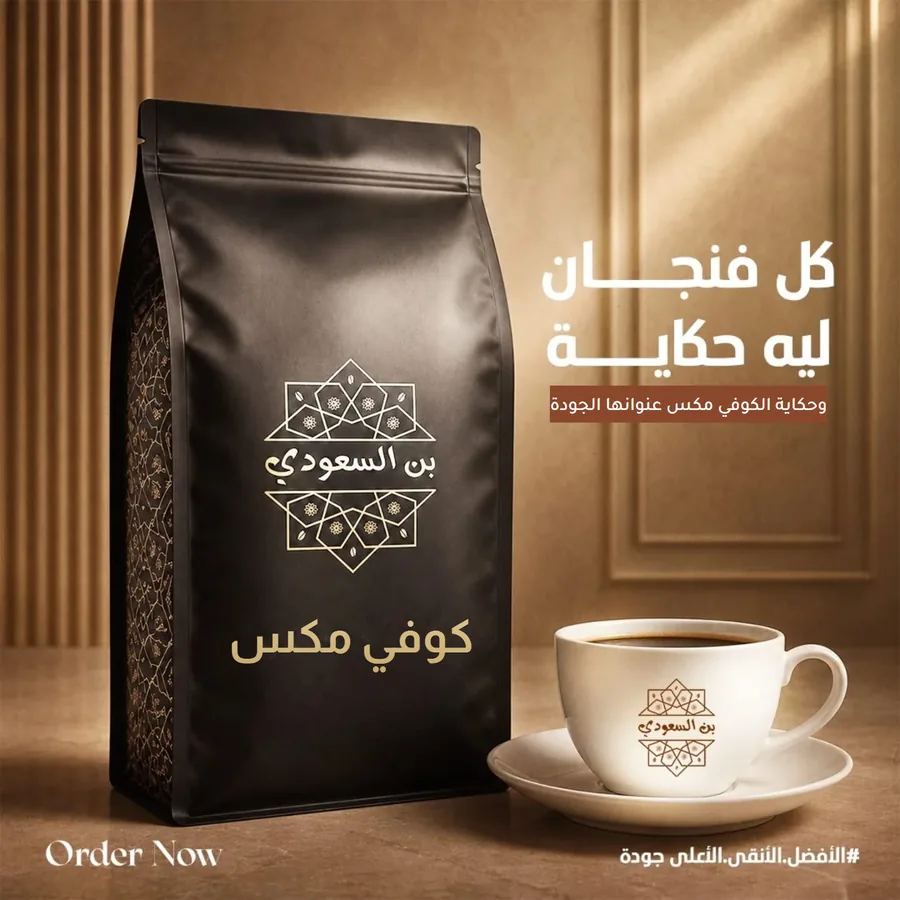
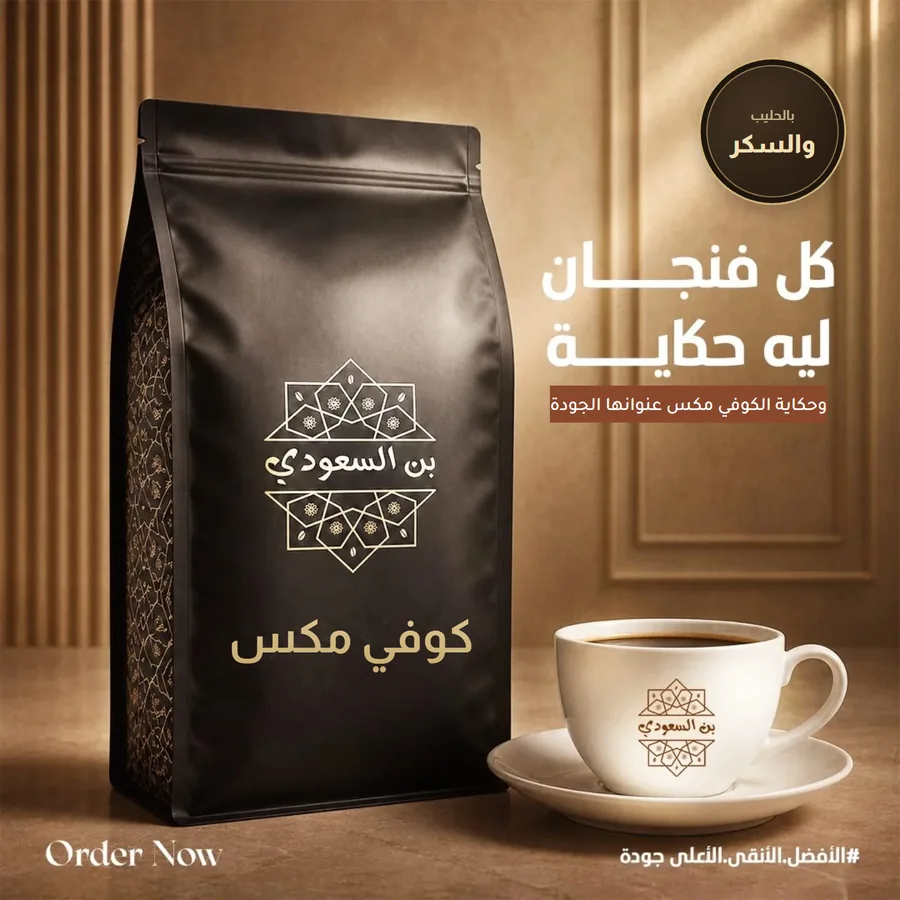
Product images: each coffee gets its own props and an origin stamp
On the shared "كل فنجان ليه حكاية" design:
- Arabic coffee: the shop's own brass dallah and finjan (cut from its poster)
  in place of the white cup, on a base with the cup removed (make-nocup.py)
- French coffee: the shop's hazelnut cup; Espresso: the crema cup
- every bean coffee: its own roast colour beans on the table
- a gold stamp on the wall: origin and flag colours for single origins,
  or what the coffee is (blend, 100% Arabica, unroasted, instant...)

Props were cut out locally with rembg; scripts and props are in
scripts/product-card.

Changed region(s): [[0.7778, 0.0622, 0.9644, 0.2489]]

diff --git a/scripts/product-card/template.html b/scripts/product-card/template.html
@@ -1,8 +1,9 @@
 <!doctype html>
 <!--
   The store's product image (1440 x 1440): the shop's "كل فنجان ليه حكاية" poster with this
-  product's name on the bag and in the red strip. Rendered by render-product-cards.py with
-  headless Chrome; the product comes in the URL hash: template.html#{"bag":["بن حبشي"],"strip":"البن الحبشي"}
+  product's name on the bag and in the red strip, plus the things that go with it on the table
+  (its own beans, the dallah for Arabic coffee, hazelnuts for French coffee...).
+  Rendered by render-product-cards.py with headless Chrome; the product comes in the URL hash.
   For Ramadan or summer later: make a new base the same way and render again.
 -->
 <html lang="ar" dir="rtl">
@@ -15,6 +16,7 @@
   * { box-sizing: border-box; margin: 0; }
   html, body { width: 1440px; height: 1440px; overflow: hidden; background: #000; }
   .poster { position: relative; width: 1440px; height: 1440px; background: url("base.jpg") 0 0 / 1440px 1440px no-repeat; }
+  .poster.no-cup { background-image: url("base-nocup.jpg"); }
 
   /* the product name printed on the bag, in the bag's gold */
   .bag {
@@ -36,18 +38,74 @@
     display: flex; align-items: center; justify-content: center;
     font: 500 30px/1 "Tajawal", sans-serif; color: #fff; white-space: nowrap; padding: 0 14px;
   }
+
+  /* things on the table: positioned by their bottom centre (where they touch the table) */
+  .prop { position: absolute; transform: translate(-50%, -100%); }
+  .prop img { display: block; width: 100%; height: auto; filter: drop-shadow(-10px 6px 10px rgba(40, 22, 10, .45)); }
+  /* soft contact shadow on the table under each prop */
+  .prop::after { content: ""; position: absolute; left: 8%; right: 8%; bottom: -10px; height: 26px; z-index: -1;
+    background: radial-gradient(ellipse at center, rgba(30,16,6,.55), rgba(30,16,6,0) 70%); }
+  .prop--flat::after { display: none; }
+  /* the bean drawings: a touch softer and warmer so they sit in the photo */
+  .prop--flat img { filter: blur(.5px) saturate(.88) brightness(.9) contrast(1.05) drop-shadow(-5px 4px 3px rgba(35, 18, 6, .55)); }
+  .prop.warm img { filter: sepia(.22) saturate(1.05) brightness(.95) drop-shadow(-10px 6px 10px rgba(40, 22, 10, .45)); }
+
+  /* gold stamp on the wall: what makes this coffee itself (origin and flag, or its character) */
+  .stamp {
+    position: absolute; left: 1118px; top: 92px; width: 236px; height: 236px; border-radius: 50%;
+    display: flex; flex-direction: column; align-items: center; justify-content: center; gap: 6px; text-align: center;
+    border: 3px solid rgba(214, 186, 128, .95);
+    box-shadow: inset 0 0 0 9px rgba(24, 16, 10, .94), inset 0 0 0 11px rgba(214, 186, 128, .55), 0 12px 26px rgba(40, 22, 10, .28);
+    background: radial-gradient(circle at 40% 35%, rgba(52, 36, 22, .92), rgba(24, 16, 10, .94));
+    color: #E7D2A2; font-family: "Almarai", sans-serif;
+  }
+  .stamp__top { font-size: 22px; font-weight: 700; opacity: .8; }
+  .stamp__main { font-size: 40px; font-weight: 800; line-height: 1.1; color: #F1DFB4; padding: 0 18px; white-space: nowrap; }
+  .stamp__flag { display: flex; width: 86px; height: 14px; border-radius: 3px; overflow: hidden; margin-top: 4px; box-shadow: 0 0 0 1.5px rgba(214, 186, 128, .7); }
+  .stamp__flag i { flex: 1; }
+  .stamp__flag--v { flex-direction: column; height: 30px; width: 58px; }
 </style>
 </head>
 <body>
-<div class="poster">
+<div class="poster" id="poster">
   <div class="strip" id="strip"></div>
   <div class="bag" id="bag"></div>
 </div>
 <script>
   const d = JSON.parse(decodeURIComponent(location.hash.slice(1) || '{}'));
+  const poster = document.getElementById('poster');
+  if (d.noCup) poster.classList.add('no-cup');
+
   const bag = document.getElementById('bag');
   (d.bag || []).forEach((line) => { const s = document.createElement('span'); s.textContent = line; bag.appendChild(s); });
   document.getElementById('strip').textContent = `وحكاية ${d.strip || ''} عنوانها الجودة`;
+
+  // props: { src, x, y (bottom centre), w, flat (no contact shadow), flip }
+  (d.props || []).forEach((p) => {
+    const box = document.createElement('div');
+    box.className = 'prop' + (p.flat ? ' prop--flat' : '') + (p.warm ? ' warm' : '');
+    box.style.cssText = `left:${p.x}px; top:${p.y}px; width:${p.w}px;`;
+    const img = document.createElement('img');
+    img.src = p.src;
+    if (p.flip) img.style.transform = 'scaleX(-1)';
+    box.appendChild(img);
+    poster.appendChild(box);
+  });
+
+  // stamp: { top, main, flag: [colours], vertical: stripes stacked top to bottom }
+  if (d.stamp) {
+    const st = document.createElement('div');
+    st.className = 'stamp';
+    if (d.stamp.top) { const t = document.createElement('span'); t.className = 'stamp__top'; t.textContent = d.stamp.top; st.appendChild(t); }
+    const m = document.createElement('span'); m.className = 'stamp__main'; m.id = 'stampMain'; m.textContent = d.stamp.main; st.appendChild(m);
+    if (d.stamp.flag) {
+      const f = document.createElement('span');
+      f.className = 'stamp__flag' + (d.stamp.vertical ? ' stamp__flag--v' : '');
+      d.stamp.flag.forEach((c) => { const i = document.createElement('i'); i.style.background = c; f.appendChild(i); });
+      st.appendChild(f);
+    }
+    poster.appendChild(st);
+  }
 
   // shrink text that is too wide for its place
   function fit(el, max, min, tooBig) {
@@ -55,11 +113,13 @@
     el.style.fontSize = size + 'px';
     while (size > min && tooBig()) { size -= 1; el.style.fontSize = size + 'px'; }
   }
-  document.fonts.ready.then(() => {
+  Promise.all([document.fonts.ready, ...[...document.images].map((i) => i.decode().catch(() => {}))]).then(() => {
     const lines = bag.children.length;
     fit(bag, lines > 1 ? 58 : 74, 36, () => [...bag.children].some((s) => s.scrollWidth > 400) || bag.scrollHeight > 160);
     const strip = document.getElementById('strip');
     fit(strip, 30, 18, () => strip.scrollWidth > strip.clientWidth);
+    const stampMain = document.getElementById('stampMain');
+    if (stampMain) fit(stampMain, 40, 22, () => stampMain.scrollWidth > 196);
     document.body.dataset.ready = '1';
   });
 </script>

diff --git a/scripts/product-card/render-product-cards.py b/scripts/product-card/render-product-cards.py
@@ -5,8 +5,10 @@ then saves a 900 px WebP to public/media/products/card-<slug>.webp.
   python scripts/product-card/render-product-cards.py            # all products
   python scripts/product-card/render-product-cards.py habashi    # just some
 
-To add a product: add a line to PRODUCTS (what goes on the bag, and the words for the red strip),
-render, then set the photo in admin or in the database.
+Each product has: the lines on the bag, the words for the red strip ("وحكاية ___ عنوانها الجودة"),
+and what sits on the table. Props are cut-outs from the shop's own posters (props/*.png, made with
+rembg) and the bean drawings from the story book (public/media/beans), so every coffee shows its own
+roast colour. Positions are in the 1440 px poster, measured at the bottom centre of each prop.
 """
 import json
 import subprocess
@@ -18,32 +20,83 @@ from pathlib import Path
 from PIL import Image
 
 HERE = Path(__file__).parent
-OUT = HERE.parent.parent / "public" / "media" / "products"
+SITE = HERE.parent.parent
+OUT = SITE / "public" / "media" / "products"
 CHROME = r"C:\Program Files\Google\Chrome\Application\chrome.exe"
 
-# slug: (lines printed on the bag, "وحكاية ___ عنوانها الجودة")
+
+def beans(slug, x=640, y=1398, w=165, flip=False):
+    """A small pile of this coffee's beans on the table in front of the bag."""
+    return {"src": f"props/beans-{slug}.png", "x": x, "y": y, "w": w, "flip": flip, "flat": True}
+
+
+DALLAH = [
+    {"src": "props/dallah.png", "x": 1050, "y": 1300, "w": 420},
+    {"src": "props/finjan.png", "x": 1268, "y": 1338, "w": 245},
+]
+ESPRESSO_CUP = {"src": "props/espresso.png", "x": 1074, "y": 1322, "w": 610}
+# its saucer is sized to cover the white cup and saucer underneath
+HAZELNUT_CUP = {"src": "props/hazelnuts.png", "x": 1080, "y": 1326, "w": 605, "warm": True}
+
+# stripes of each origin's flag (vertical: stacked top to bottom)
+ETHIOPIA = {"flag": ["#078930", "#FCDD09", "#DA121A"], "vertical": True}
+BRAZIL = {"flag": ["#009C3B", "#FFDF00", "#002776", "#FFDF00", "#009C3B"]}
+COLOMBIA = {"flag": ["#FCD116", "#FCD116", "#003893", "#CE1126"], "vertical": True}
+INDIA = {"flag": ["#FF9933", "#FFFFFF", "#138808"], "vertical": True}
+
+
+def origin(country, flag):
+    """Stamp for a single origin coffee: its country and flag colours."""
+    return {"top": "أصل البن", "main": country, **flag}
+
+
+def note(top, main):
+    """Stamp for a blend or a drink: a short word about what it is."""
+    return {"top": top, "main": main}
+
+
 PRODUCTS = {
-    "habashi":       (["بن حبشي"], "البن الحبشي"),
-    "brazili":       (["بن برازيلي"], "البن البرازيلي"),
-    "colombi":       (["بن كولومبي"], "البن الكولومبي"),
-    "hindi":         (["بن هندي"], "البن الهندي"),
-    "arabi":         (["قهوة عربية", "بالهيل والزعفران"], "القهوة العربية"),
-    "saudi":         (["توليفة السعودي"], "توليفة السعودي"),
-    "malaki":        (["بن ملوكي"], "البن الملوكي"),
-    "special":       (["بن اسبيشيال"], "البن الاسبيشيال"),
-    "arabica":       (["أرابيكا بريميوم"], "الأرابيكا البريميوم"),
-    "espresso":      (["إسبريسو إيطالي"], "الإسبريسو الإيطالي"),
-    "green":         (["بن أخضر"], "البن الأخضر"),
-    "french":        (["قهوة فرنساوي"], "القهوة الفرنساوي"),
-    "nescafe-black": (["نسكافيه بلاك"], "النسكافيه البلاك"),
-    "nescafe-gold":  (["نسكافيه جولد"], "النسكافيه الجولد"),
-    "coffee-mix":    (["كوفي مكس"], "الكوفي مكس"),
-    "coffee-shop":   (["كوفي شوب"], "الكوفي شوب"),
+    # slug: (bag lines, strip words, props on the table, stamp on the wall, base without the white cup)
+    "habashi":       (["بن حبشي"], "البن الحبشي", [beans("habashi")], origin("إثيوبيا", ETHIOPIA), False),
+    "brazili":       (["بن برازيلي"], "البن البرازيلي", [beans("brazili")], origin("البرازيل", BRAZIL), False),
+    "colombi":       (["بن كولومبي"], "البن الكولومبي", [beans("colombi")], origin("كولومبيا", COLOMBIA), False),
+    "hindi":         (["بن هندي"], "البن الهندي", [beans("hindi")], origin("الهند", INDIA), False),
+    "arabi":         (["قهوة عربية", "بالهيل والزعفران"], "القهوة العربية", DALLAH + [beans("arabi")], note("بالطريقة الأصيلة", "هيل وزعفران"), True),
+    "saudi":         (["توليفة السعودي"], "توليفة السعودي", [beans("saudi")], note("توليفة", "السعودي"), False),
+    "malaki":        (["بن ملوكي"], "البن الملوكي", [beans("malaki")], note("توليفة", "ملوكي"), False),
+    "special":       (["بن اسبيشيال"], "البن الاسبيشيال", [beans("special")], note("توليفة", "اسبيشيال"), False),
+    "arabica":       (["أرابيكا بريميوم"], "الأرابيكا البريميوم", [beans("arabica")], note("١٠٠٪", "أرابيكا"), False),
+    "espresso":      (["إسبريسو إيطالي"], "الإسبريسو الإيطالي", [ESPRESSO_CUP, beans("espresso")], note("تحميص", "إيطالي"), False),
+    "green":         (["بن أخضر"], "البن الأخضر", [beans("green", w=180)], note("حبوب", "غير محمّصة"), False),
+    "french":        (["قهوة فرنساوي"], "القهوة الفرنساوي", [HAZELNUT_CUP, beans("french")], note("سبع", "نكهات"), False),
+    "nescafe-black": (["نسكافيه بلاك"], "النسكافيه البلاك", [], note("سريع التحضير", "بلاك"), False),
+    "nescafe-gold":  (["نسكافيه جولد"], "النسكافيه الجولد", [], note("سريع التحضير", "جولد"), False),
+    "coffee-mix":    (["كوفي مكس"], "الكوفي مكس", [], note("بالحليب", "والسكر"), False),
+    "coffee-shop":   (["كوفي شوب"], "الكوفي شوب", [beans("saudi")], note("توليفة", "الكافيهات"), False),
 }
 
 
-def render(slug, bag, strip, tmp):
-    data = urllib.parse.quote(json.dumps({"bag": bag, "strip": strip}, ensure_ascii=False))
+def trimmed_beans(slug):
+    """The story book's bean drawing, ready for a photo: its grey shadow (drawn for a cream page)
+    is dropped so only the beans are left, then cropped tight. The template adds a table shadow."""
+    out = HERE / "props" / f"beans-{slug}.png"
+    if not out.exists():
+        import numpy as np
+        im = np.asarray(Image.open(SITE / "public" / "media" / "beans" / f"{slug}.webp").convert("RGBA")).copy()
+        rgb, alpha = im[..., :3].astype(int), im[..., 3]
+        shadow = (alpha < 235) & (rgb.max(axis=2) - rgb.min(axis=2) < 28)
+        im[..., 3] = np.where(shadow, 0, alpha)
+        clean = Image.fromarray(im)
+        clean.crop(clean.getbbox()).save(out)
+    return out
+
+
+def render(slug, tmp):
+    bag, strip, props, stamp, no_cup = PRODUCTS[slug]
+    for p in props:
+        if p["src"].startswith("props/beans-"):
+            trimmed_beans(p["src"][len("props/beans-"):-len(".png")])
+    data = urllib.parse.quote(json.dumps({"bag": bag, "strip": strip, "props": props, "stamp": stamp, "noCup": no_cup}, ensure_ascii=False))
     url = (HERE / "template.html").as_uri() + "#" + data
     png = Path(tmp) / f"{slug}.png"
     subprocess.run([
@@ -61,6 +114,5 @@ if __name__ == "__main__":
     OUT.mkdir(parents=True, exist_ok=True)
     with tempfile.TemporaryDirectory() as tmp:
         for slug in wanted:
-            bag, strip = PRODUCTS[slug]
-            out = render(slug, bag, strip, tmp)
+            out = render(slug, tmp)
             print(f"{slug:14} {out.stat().st_size // 1024} KB")

diff --git a/scripts/product-card/make-nocup.py b/scripts/product-card/make-nocup.py
@@ -1,0 +1,66 @@
+"""
+base-nocup.jpg: the base poster without the white cup, for products that bring their own
+prop in its place (the dallah for Arabic coffee).
+
+  python scripts/product-card/make-nocup.py
+
+The cup is replaced in two layers, so there is no seam:
+  tone    a smooth fill from what surrounds the cup: across each row above the saucer (keeps the
+          table edge straight), then top to bottom at saucer height, where only bag and saucer
+          are beside it
+  detail  the fine marble grain of the table, taken from the clean rows below the hashtag line
+"""
+from pathlib import Path
+
+import numpy as np
+from PIL import Image, ImageFilter
+
+here = Path(__file__).parent
+src_img = Image.open(here / "base.jpg").convert("RGB")
+orig = np.asarray(src_img).astype(np.float32)
+img = orig.copy()
+
+x_left, x_right = 829, 1378         # clean background just right of the bag / just past the cup
+bag_edge, bag_bottom = 815, 1271    # the bag's right edge and the line where it meets the table
+top_y, table_edge = 960, 1035       # top of the cup area, and where the wall meets the table
+saucer_top, table_y = 1172, 1352    # just above the saucer rim, and the first table row under its shadow
+clean_y = 1394                      # table rows below the hashtag text: the grain source
+
+# tone, part 1: above the saucer, blend each row between the two sides
+for y in range(top_y, saucer_top):
+    t = np.linspace(0, 1, x_right - x_left)[:, None]
+    img[y, x_left:x_right] = orig[y, x_left - 6:x_left].mean(axis=0) * (1 - t) + orig[y, x_right:x_right + 6].mean(axis=0) * t
+img[top_y:saucer_top, bag_edge:x_left] = img[top_y:saucer_top, x_left:x_left + 1]
+
+# tone, part 2: at saucer height, blend each column between the row above and the table below
+# (the table row underneath still has the cup's shadow in it, so only its broad tone is used)
+bottom = np.asarray(Image.fromarray(orig[table_y - 2:table_y + 3, 700:1440].astype(np.uint8)).filter(ImageFilter.BoxBlur(60))).astype(np.float32)[2, 76:x_right - 700]
+t = np.linspace(0, 1, table_y - saucer_top)[:, None, None]
+img[saucer_top:table_y, 776:x_right] = img[saucer_top - 1, 776:x_right][None] * (1 - t) + bottom[None] * t
+
+# the saucer hid the bag's bottom corner: rebuild it from the bag just left of it
+for y in range(saucer_top, bag_bottom):
+    img[y, 776:bag_edge] = orig[y, 768:774].mean(axis=0)
+
+# detail: marble grain only (texture minus its blur), laid over the table part of the fill
+h = table_y - table_edge
+reach = 1440 - clean_y
+rows = [clean_y + (k if k < reach else 2 * reach - 1 - k) for k in (np.arange(h) % (2 * reach))]
+tex = orig[rows, 776:x_right]
+blur = np.asarray(Image.fromarray(tex.astype(np.uint8)).filter(ImageFilter.GaussianBlur(5))).astype(np.float32)
+grain = tex - blur
+for i, y in enumerate(range(table_edge, table_y)):
+    x0 = bag_edge if y < bag_bottom else 776
+    img[y, x0:x_right] += grain[i, x0 - 776:] * 0.35
+
+# feather the outer edges into the untouched picture
+for i in range(16):
+    a = i / 16
+    img[top_y:table_y, x_right - 16 + i] = img[top_y:table_y, x_right - 16 + i] * (1 - a) + orig[top_y:table_y, x_right - 16 + i] * a
+    img[bag_bottom:table_y, 776 + i] = orig[bag_bottom:table_y, 776 + i] * (1 - a) + img[bag_bottom:table_y, 776 + i] * a
+for i in range(16):
+    a = i / 16
+    img[table_y - 16 + i, 776:x_right] = img[table_y - 16 + i, 776:x_right] * (1 - a) + orig[table_y - 16 + i, 776:x_right] * a
+
+Image.fromarray(np.clip(img, 0, 255).astype(np.uint8)).save(here / "base-nocup.jpg", quality=95)
+print("saved base-nocup.jpg")
